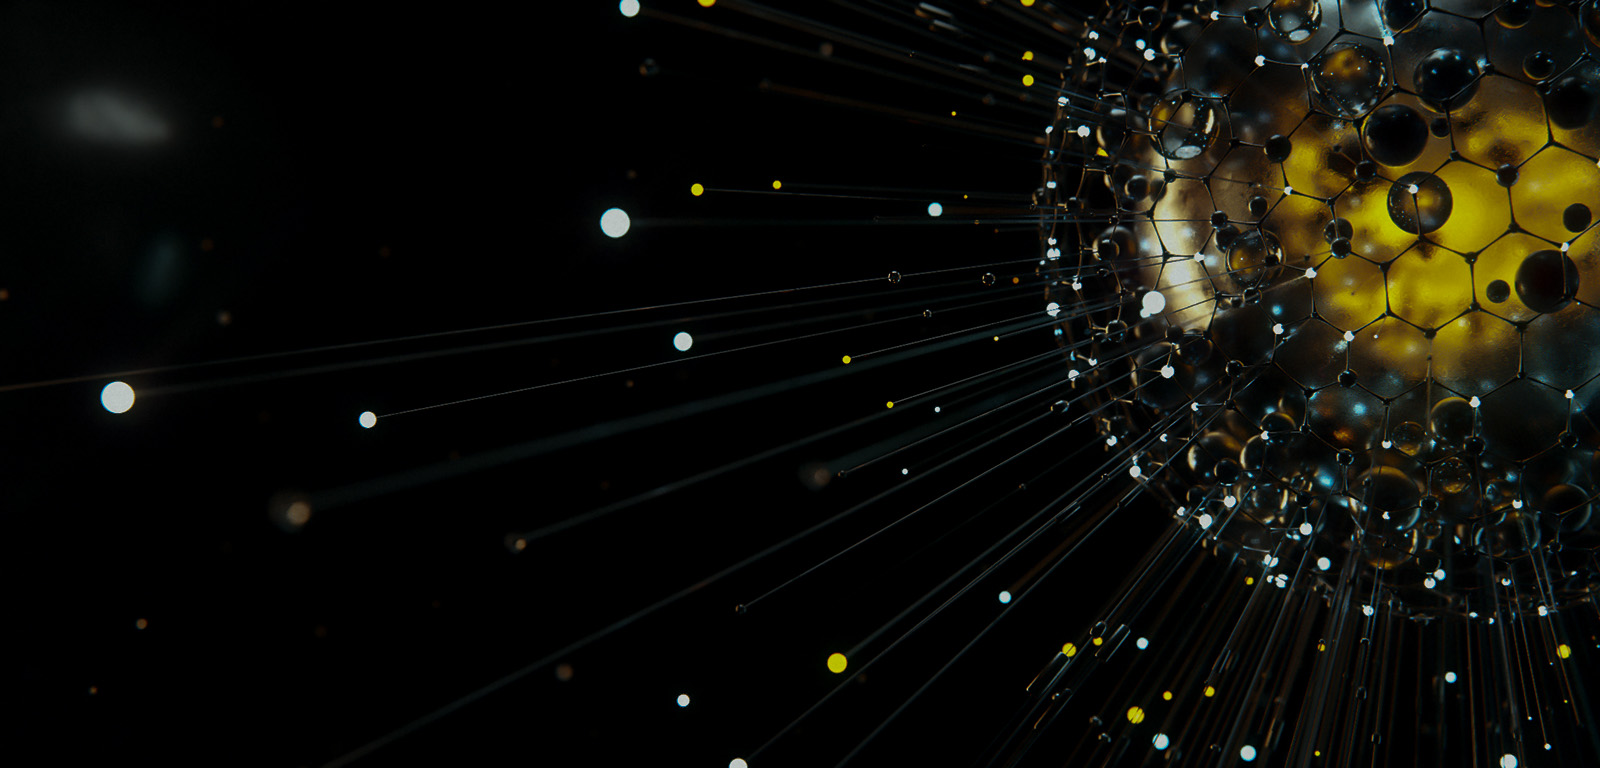
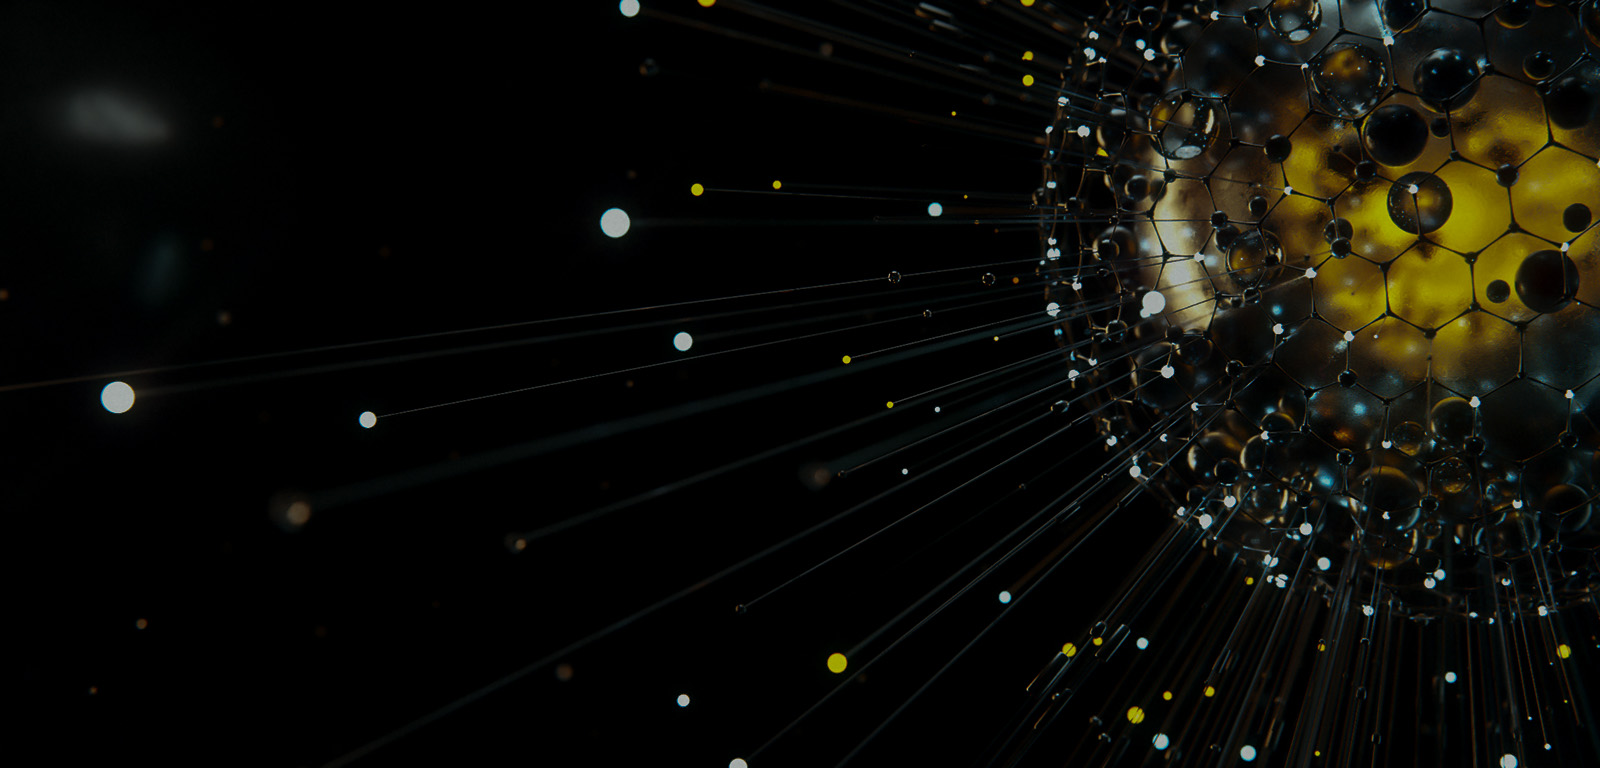
Darken Intro Background and Add some Space

diff --git a/assets/css/main.css b/assets/css/main.css
@@ -399,7 +399,7 @@ h1, h2, h3, h4 {
   padding: 0; }
 
 h1 {
-  margin-bottom: .75em;
+  margin-bottom: 1.2em;
   font-size: 48px;
   line-height: 1.4; }
 

diff --git a/assets/css/1-base/_base.sass b/assets/css/1-base/_base.sass
@@ -3,7 +3,7 @@ h1, h2, h3, h4
     padding: 0
 
 h1
-    margin-bottom: .75em
+    margin-bottom: 1.2em
     font-size: 48px
     line-height: 1.4
 
